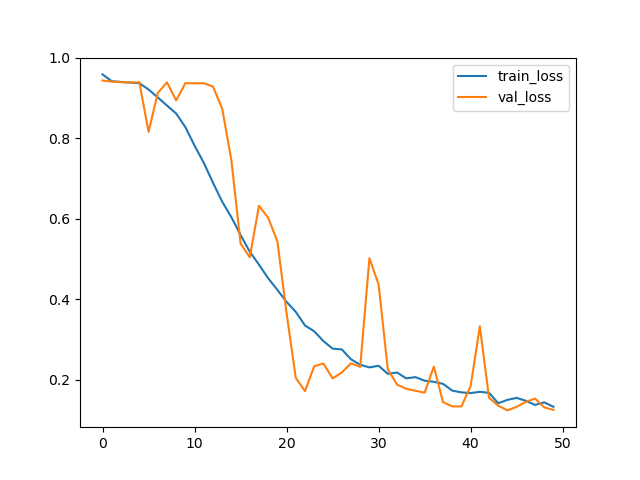
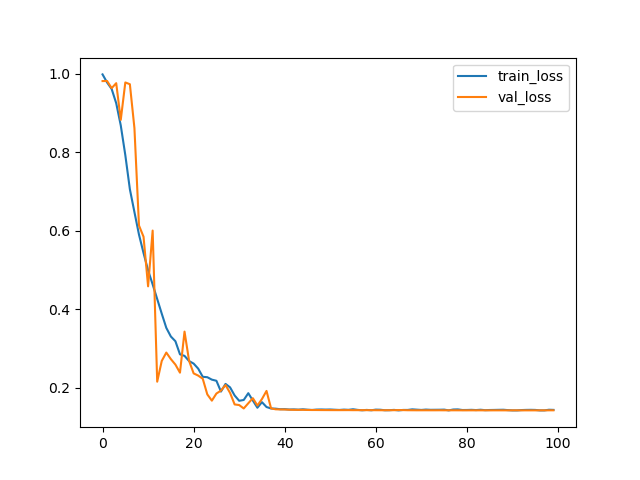
调整了损失函数构成、增加了日志保存功能

diff --git a/code/train.py b/code/train.py
@@ -6,6 +6,9 @@ import torch.nn as nn
 from torchmetrics.functional import structural_similarity_index_measure as ssim
 from torchmetrics.functional import peak_signal_noise_ratio as psnr
 from utils import perceptual_loss
+import json
+import os
+import time
 
 config = {
     'root_dir': 'data/train',
@@ -16,18 +19,30 @@ config = {
     'batch_size': 1,
     'max_signal': 100,
     'max_idler': 100,
-    'in_channels': 200,  # max_signal+max_idler
     'out_channels': 1,
     'loss_weight_ssim': 1,
     'loss_weight_mse': 0.1,
     'loss_weight_perceptual': 0.1, 
 }
 
+
+
+#根据max_signal, max_idler, stack_num计算输入通道数
+config['in_channels'] = (config['max_signal'] // config['stack_num']) + (config['max_idler'] // config['stack_num'])
+
 def loss_fn(output, target):
     # output, target: [B, 1, H, W]
     return config['loss_weight_ssim'] * (1 - ssim(output, target)) + config['loss_weight_mse'] * nn.MSELoss()(output, target) + config['loss_weight_perceptual'] * perceptual_loss(output, target)    
 
 def train():
+    # 自动生成实验名，包含主要参数
+    exp_name = f"exp_{time.strftime('%Y%m%d_%H%M%S')}_stack{config['stack_num']}_lr{config['learning_rate']}_sig{config['max_signal']}"
+    exp_dir = os.path.join('results', exp_name)
+    os.makedirs(exp_dir, exist_ok=True)
+    # 保存config参数
+    with open(os.path.join(exp_dir, 'config.json'), 'w') as f:
+        json.dump(config, f, indent=2)
+
     train_dataset = GhostImagingDataset(
         config['root_dir'],
         config['img_size'],
@@ -62,10 +77,12 @@ def train():
 
     best_val_loss = float('inf')
     losses = []
+    psnrs = []
 
     for epoch in range(config['epochs']):
         model.train()
         train_loss = 0.0
+        train_psnr = 0.0
         for X, target in train_loader:
             X, target = X.to(device), target.to(device)
             # X: [B, C, H, W], target: [B, 1, H, W]
@@ -75,20 +92,26 @@ def train():
             loss.backward()
             optimizer.step()
             train_loss += loss.item()
+            train_psnr += psnr(output, target)
         train_loss /= len(train_loader)
+        train_psnr /= len(train_loader)
 
         model.eval()
         val_loss = 0.0
+        val_psnr = 0.0
         with torch.no_grad():
             for X, target in val_loader:
                 X, target = X.to(device), target.to(device)
                 output = model(X)
                 loss = loss_fn(output, target)
                 val_loss += loss.item()
+                val_psnr += psnr(output, target)
         val_loss /= len(val_loader)
+        val_psnr /= len(val_loader)
 
         print(f"Epoch [{epoch + 1}/{config['epochs']}], Train Loss: {train_loss:.4f}, Val Loss: {val_loss:.4f}")
         losses.append((train_loss, val_loss))
+        psnrs.append((train_psnr, val_psnr))
 
         if val_loss < best_val_loss:
             best_val_loss = val_loss
@@ -100,7 +123,13 @@ def train():
     plt.plot([x[0] for x in losses], label='train_loss')
     plt.plot([x[1] for x in losses], label='val_loss')
     plt.legend()
-    plt.savefig('losses.png')
+    plt.savefig(os.path.join(exp_dir, 'losses.png'))
+
+    plt.figure()
+    plt.plot([x[0] for x in psnrs], label = 'train_psnr')
+    plt.plot([x[1] for x in psnrs], label = 'val_psnr')
+    plt.legend()
+    plt.savefig(os.path.join(exp_dir, 'psnrs.png'))
 
 if __name__ == "__main__":
     train()

diff --git a/code/metric.py b/code/metric.py
@@ -5,6 +5,7 @@ import numpy as np
 import os
 import matplotlib.pyplot as plt
 from torchvision.utils import save_image
+from torchmetrics.functional import peak_signal_noise_ratio as psnr
 
 
 
@@ -18,10 +19,13 @@ def predict_and_save(test_root_dir, img_size, model_path, save_dir, max_signal=1
     model.load_state_dict(torch.load(model_path, map_location=device, weights_only=True))
     model.to(device)
     model.eval()
+    metrics = []
     for idx, (X, target) in enumerate(loader):
         X = X.to(device)
         with torch.no_grad():
             pred = model(X)
+        metric = psnr(pred, target)
+        metrics.append(metric)
         pred_img = pred.squeeze().cpu()
         save_path = os.path.join(save_dir, f'pred_{idx}.png')
         save_image(pred_img, save_path)
@@ -30,10 +34,13 @@ def predict_and_save(test_root_dir, img_size, model_path, save_dir, max_signal=1
         save_image(target_img, os.path.join(save_dir, f'target_{idx}.png'))
         print(f'Saved: {save_path}')
 
+    return metrics
+
 if __name__ == "__main__":
     test_root_dir = 'data/test'  # 按实际路径修改
     img_size = (512, 384)
     model_path = 'checkpoints/best_model.pth'
     save_dir = 'results/'
-    predict_and_save(test_root_dir, img_size, model_path, save_dir)
+    psnrs = predict_and_save(test_root_dir, img_size, model_path, save_dir)
+    print(f'PSNRs: {psnrs}')
 

diff --git a/code/dataset.py b/code/dataset.py
@@ -72,8 +72,22 @@ class GhostImagingDataset(Dataset):
             img = Image.open(path).convert('L')
             img = self.transform(img)
             idler_imgs.append(img)
+        # 预叠加：每stack_num张合成一张（均值）
+        def stack_and_merge(imgs, stack_num):
+            merged = []
+            for i in range(0, len(imgs), stack_num):
+                group = imgs[i:i+stack_num]
+                if len(group) < stack_num:
+                    # 不足stack_num的丢弃
+                    continue
+                group_tensor = torch.stack(group, dim=0)  # [stack_num, 1, H, W]
+                merged_img = group_tensor.sum(dim=0)  # [1, H, W]
+                merged.append(merged_img)
+            return merged
+        signal_merged = stack_and_merge(signal_imgs, self.stack_num)
+        idler_merged = stack_and_merge(idler_imgs, self.stack_num)
         # 堆叠为多通道输入
-        X = torch.cat(signal_imgs + idler_imgs, dim=0)  # [C, H, W], C=max_signal+max_idler
+        X = torch.cat(signal_merged + idler_merged, dim=0)  # [C, H, W], C=(max_signal//stack_num)+(max_idler//stack_num)
         target = self.transform(Image.open(target_path).convert("L")).float()  # [1, H, W]
         return X, target
 
